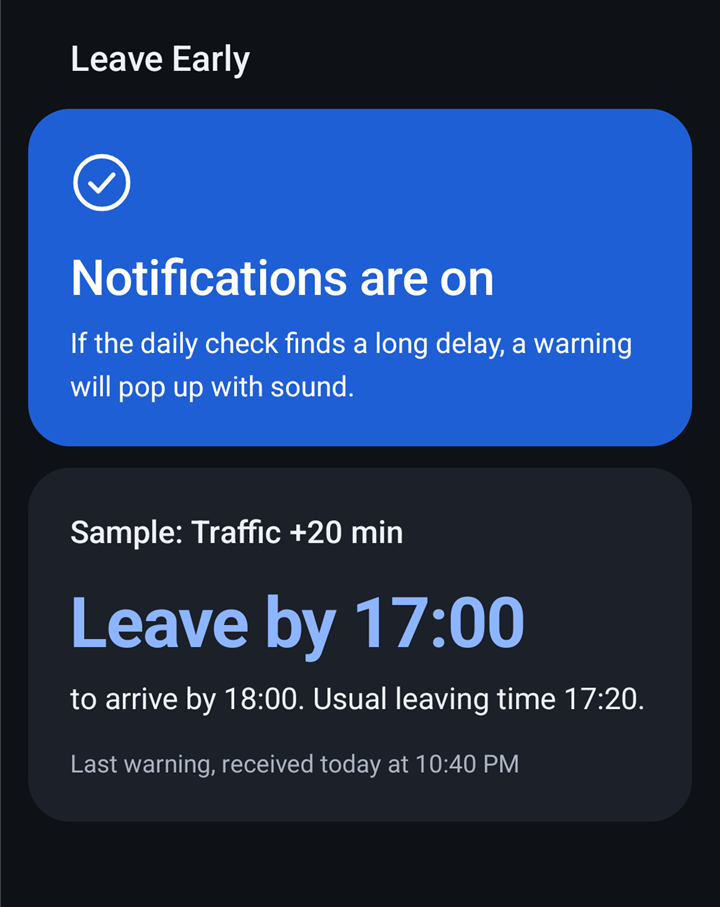
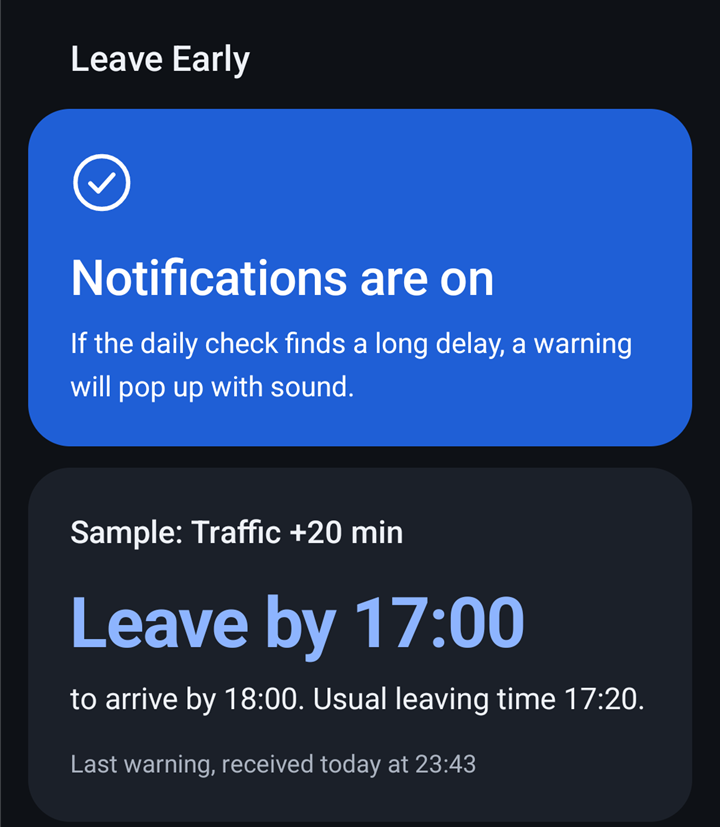
Update the site for routes set in the app
Claude-Session: https://claude.ai/code/session_01CKv5pX2CNjMhXiDVpKSpnz

diff --git a/index.html b/index.html
@@ -54,7 +54,7 @@
       <figure class="shot">
         <picture>
           <source srcset="img/app-warning-dark.png" media="(prefers-color-scheme: dark)">
-          <img src="img/app-warning-light.png" width="720" height="907" loading="lazy"
+          <img src="img/app-warning-light.png" width="720" height="827" loading="lazy"
             alt="The Leave Early app. It says notifications are on, and shows a last warning: Sample: Traffic +20 min. Leave by 17:00 to arrive by 18:00. Usual leaving time 17:20.">
         </picture>
         <figcaption>The app on an Android emulator, showing a sample warning.</figcaption>
@@ -66,10 +66,11 @@
     <h2>Where it is now</h2>
     <ul>
       <li>Real traffic checks, and warnings on a real phone, are still being tested.</li>
-      <li>It’s set up for one route on one phone, and you can’t add your own yet.</li>
+      <li>Each phone can have up to two routes, set in the app.</li>
+      <li>The addresses you enter are stored on the Leave Early server and sent to Google to check the traffic.</li>
       <li>It checks once a day, so it can’t warn about traffic that builds later.</li>
       <li>There’s no account or sign-in, and no ads or payments in this version.</li>
-      <li>If a daily check fails, the app doesn’t tell you yet. So no warning doesn’t always mean clear roads.</li>
+      <li>If a daily check fails, the app shows it when you open it, but nothing pops up. So no warning doesn’t always mean clear roads.</li>
     </ul>
   </section>
 </main>
